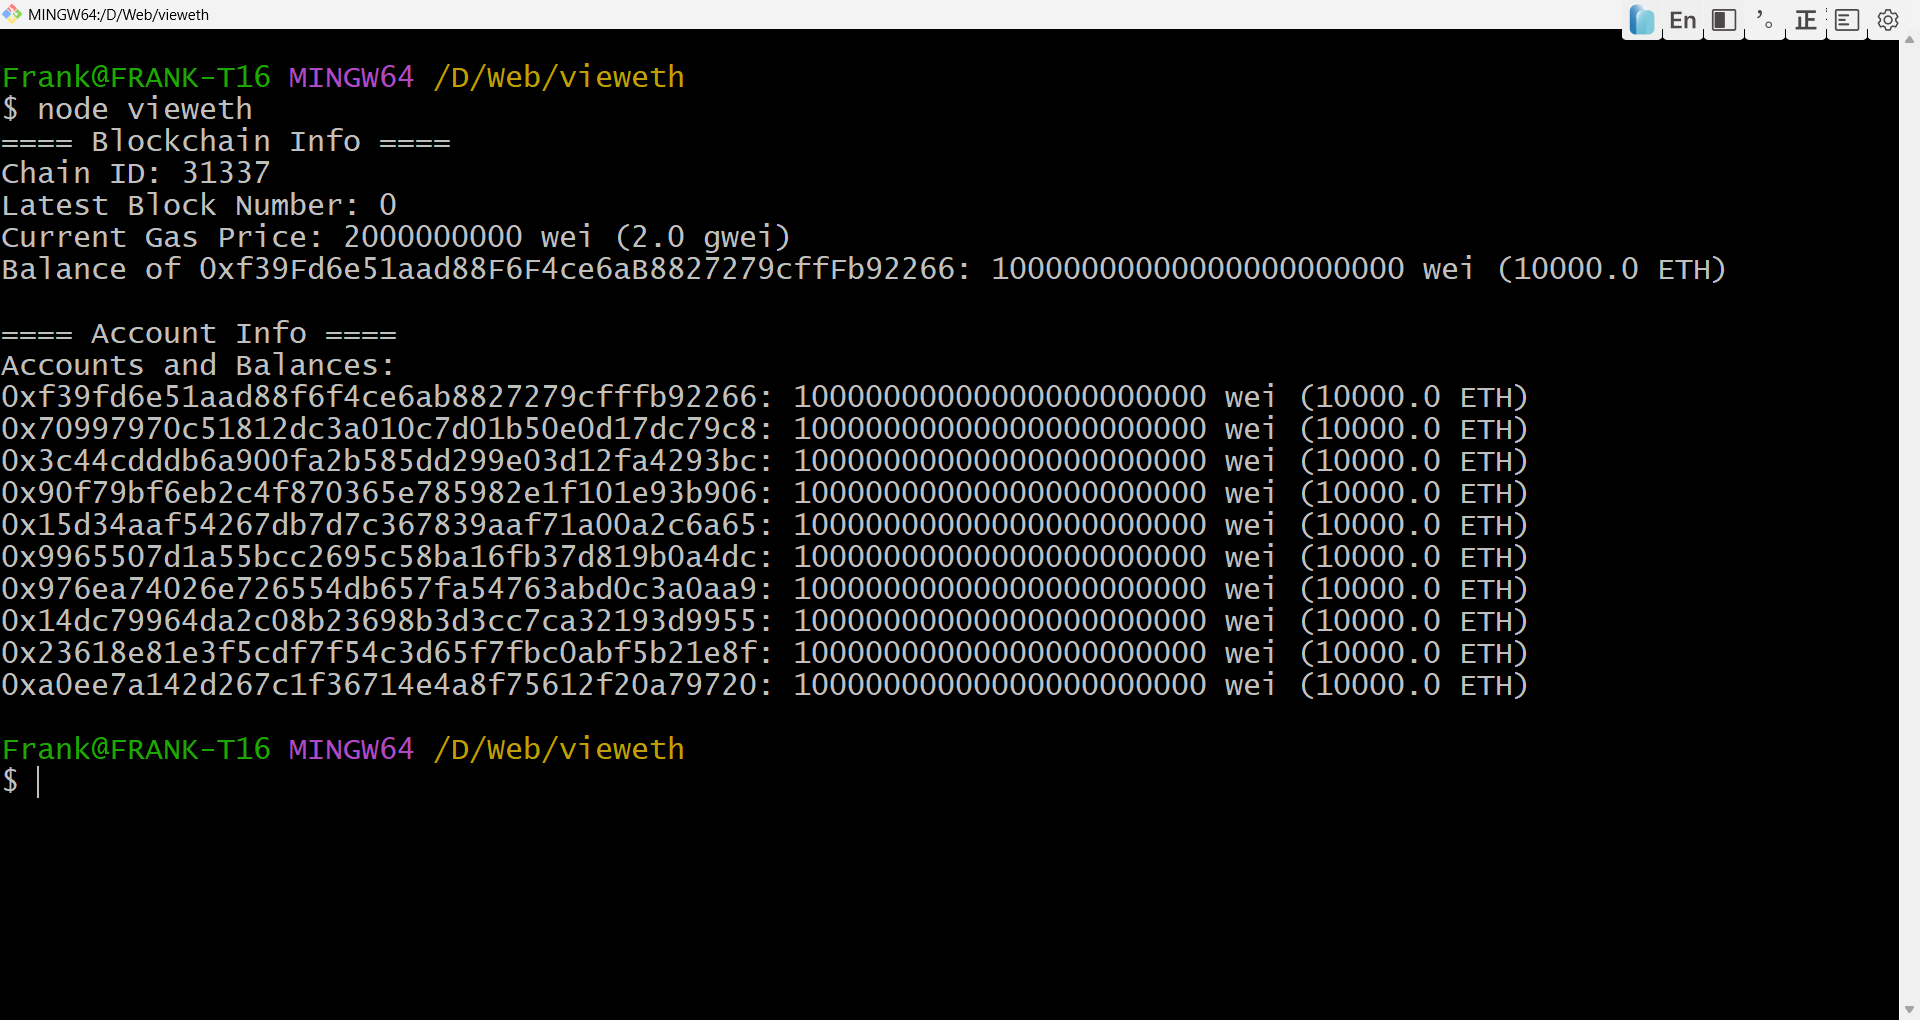
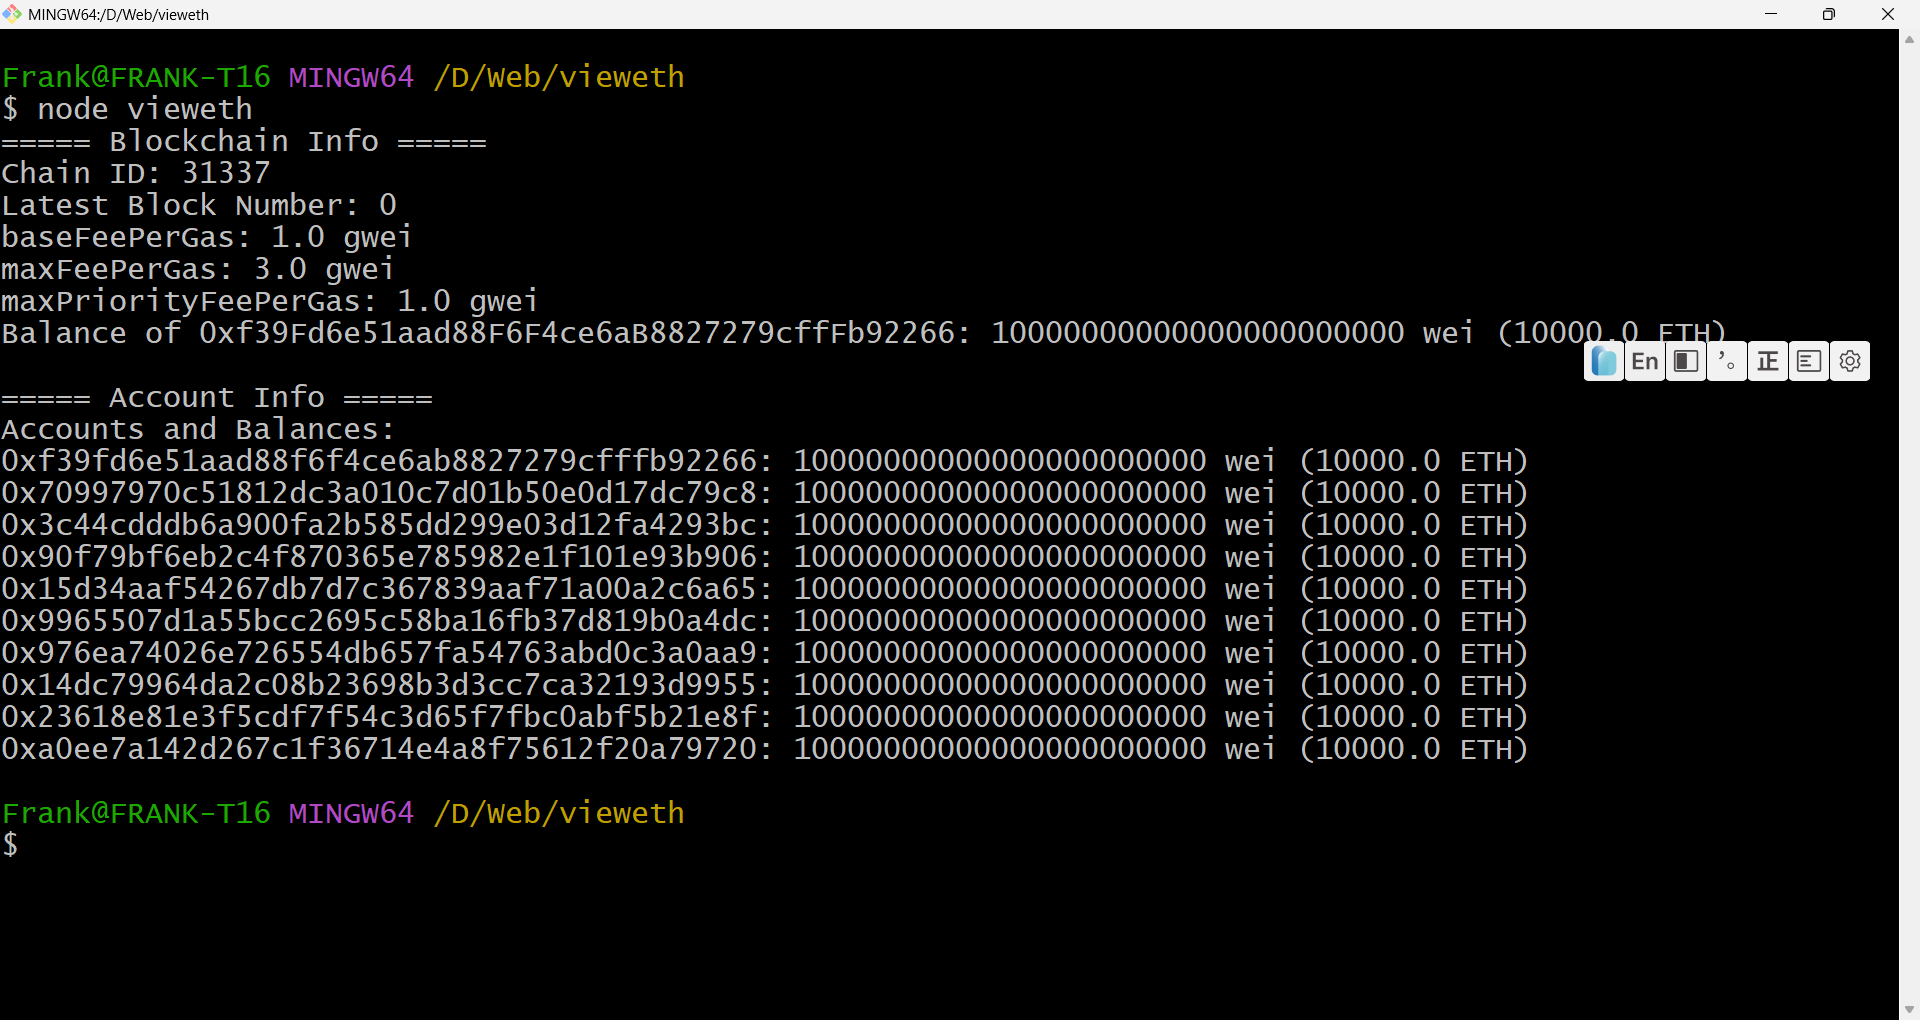
go

Changed region(s): [[0.0, 0.2127, 1.0, 0.8206], [0.8438, 0.0, 1.0, 0.0608], [0.0312, 0.1216, 0.2188, 0.152]]

diff --git a/code/web/vieweth/vieweth.js b/code/web/vieweth/vieweth.js
@@ -2,7 +2,7 @@
 // Provides easy interaction with Ethereum nodes via JSON-RPC
 const { ethers } = require("ethers");
 
-// RPC endpoint for your local Ethereum test node (e.g., Anvil, Ganache, Hardhat)
+// RPC endpoint for your local Ethereum test node (Anvil / Hardhat)
 const rpcURL = "http://127.0.0.1:8545";
 
 // Create a new provider instance that connects to the RPC endpoint
@@ -15,40 +15,63 @@ const targetAddress = "0xf39Fd6e51aad88F6F4ce6aB8827279cffFb92266";
  * Retrieve and display general blockchain information:
  * - Chain ID (network identifier)
  * - Latest block number
- * - Current gas price (from EIP-1559 fee data)
+ * - EIP-1559 fee information
  * - ETH balance of a specific target address
  */
 async function getBlockchainInfo() {
     try {
-        // Get the network information (includes chainId)
+        // Get network information (includes chainId)
         const { chainId } = await provider.getNetwork();
-        console.log(`Chain ID: ${chainId}`);
+        console.log(`Chain ID: ${chainId.toString()}`);
 
         // Get the most recent block number on the blockchain
         const blockNumber = await provider.getBlockNumber();
         console.log(`Latest Block Number: ${blockNumber}`);
 
-        // Get current gas price / fee data
-        // Ethers v6 prefers getFeeData() over getGasPrice()
-        const feeData = await provider.getFeeData();
+        // Retrieve the latest block from the connected Ethereum node
+        // "latest" = the most recently mined block
+        const block = await provider.getBlock("latest");
 
-        // Pick gas price or max fee per gas, whichever exists
-        // The ?? operator (Nullish Coalescing)
-        // ?? means “use the next value if the left side is null or undefined.”
-        const gasPriceLike = feeData.gasPrice ?? feeData.maxFeePerGas ?? 0n;
-
-        // Display gas price in both wei and gwei units
+        // baseFeePerGas:
+        // - Defined by EIP-1559
+        // - Determined by the network, not by the user
+        // - Changes dynamically depending on block congestion
+        // - Represents the minimum fee required for inclusion
+        // - May be null on non-EIP-1559 chains
         console.log(
-            `Current Gas Price: ${gasPriceLike} wei (${ethers.formatUnits(
-                gasPriceLike,
-                "gwei"
-            )} gwei)`
+            "baseFeePerGas:",
+            ethers.formatUnits(block.baseFeePerGas ?? 0n, "gwei"),
+            "gwei"
         );
 
-        // Get the ETH balance of the target address (returns BigInt in wei)
+        // Retrieve fee suggestions from the provider
+        // These are provider-estimated values for submitting a transaction;
+        // they are not fee values taken from a specific on-chain transaction
+        const feeData = await provider.getFeeData();
+
+        // maxFeePerGas:
+        // - The maximum total fee per gas the sender is willing to pay
+        // - Acts as an upper cap for base fee + priority fee
+        console.log(
+            "maxFeePerGas:",
+            ethers.formatUnits(feeData.maxFeePerGas ?? 0n, "gwei"),
+            "gwei"
+        );
+
+        // maxPriorityFeePerGas:
+        // - Also called the "tip"
+        // - Paid to the validator (or miner on older terminology)
+        // - Used to encourage faster transaction inclusion
+        console.log(
+            "maxPriorityFeePerGas:",
+            ethers.formatUnits(feeData.maxPriorityFeePerGas ?? 0n, "gwei"),
+            "gwei"
+        );
+
+        // Get the ETH balance of the target address (returned as BigInt in wei)
         const balance = await provider.getBalance(targetAddress);
 
-        // Convert balance from wei → ETH for easier reading
+        // Convert balance from wei to ETH for easier reading
         console.log(
             `Balance of ${targetAddress}: ${balance} wei (${ethers.formatEther(
                 balance
@@ -64,8 +87,8 @@ async function getBlockchainInfo() {
  * Display all available accounts from the connected Ethereum node
  * and their ETH balances.
  *
- * Works with local development nodes like Anvil, Hardhat, or Ganache
- * which automatically unlock and expose accounts via `eth_accounts`.
+ * Works with local development nodes like Anvil, Hardhat, or Ganache,
+ * which expose unlocked accounts through the `eth_accounts` RPC method.
  */
 async function getAllAccountBalances() {
     try {
@@ -99,10 +122,10 @@ async function getAllAccountBalances() {
  * - Then prints all local accounts and balances
  */
 async function main() {
-    console.log("==== Blockchain Info ====");
+    console.log("===== Blockchain Info =====");
     await getBlockchainInfo();
 
-    console.log("\n==== Account Info ====");
+    console.log("\n===== Account Info =====");
     await getAllAccountBalances();
 }
 
